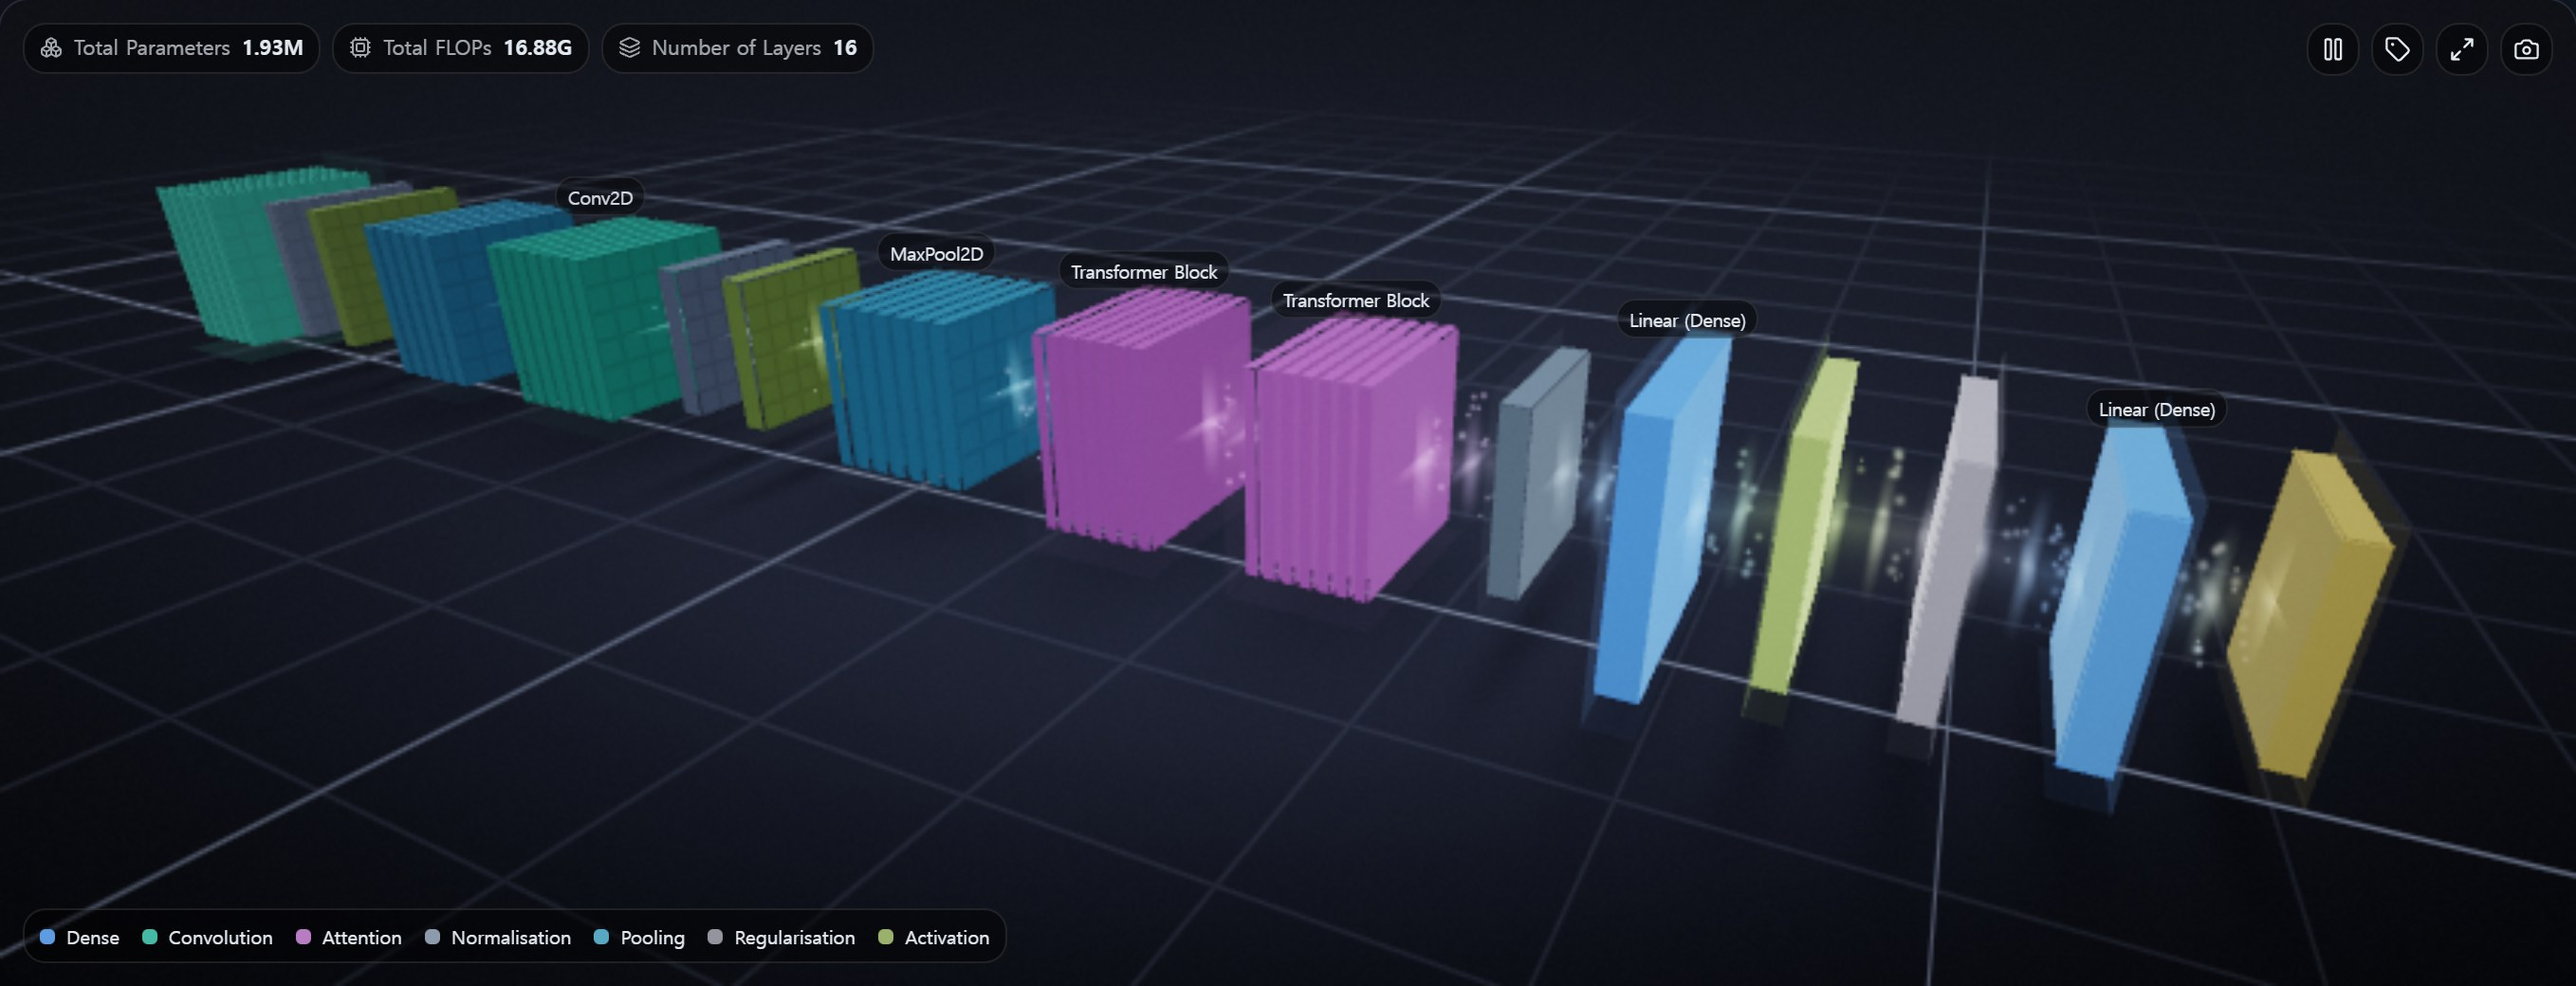
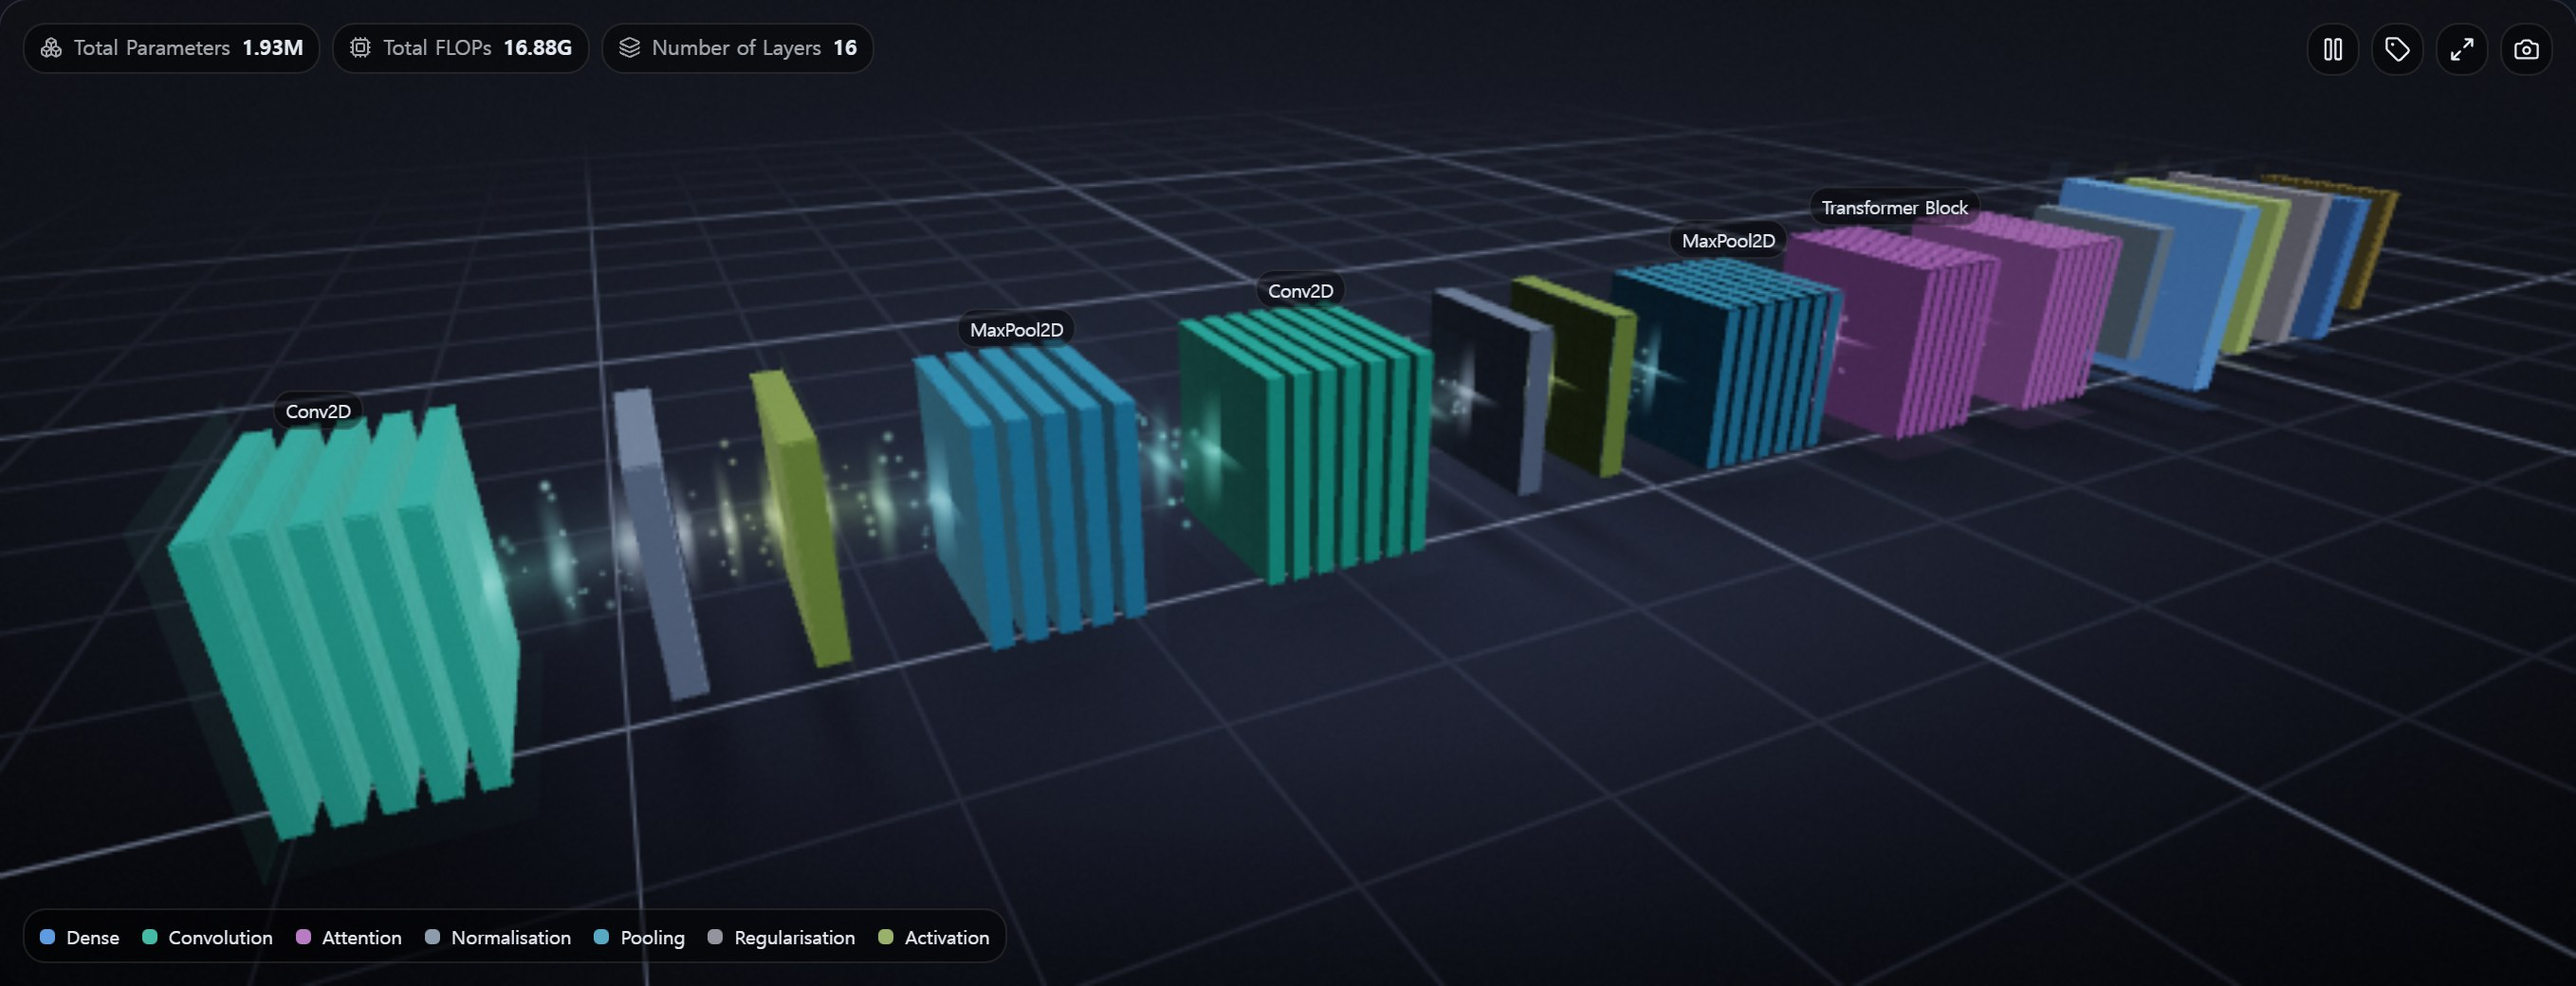
Re-frame on resize, and make the placeholder scene a real one
Resizing the window cut the model off. `resize()` updated the canvas and the
projection but never re-framed, so the fit distance, the composed angle and the
safe-area insets all stayed solved against the panel's previous shape. Dragging
a window from 1440px down to 760px left the model spanning 100% of the panel
with no margin at either edge; 1920 to 420 and 420 to 1280 clipped too.

It reproduces only by actually resizing. Loading fresh at each width looks
correct, which is how it got through a first pass of checks that opened a new
page per viewport.

`resize()` now re-frames an unposed camera. A camera the viewer has posed is
left alone, because the pose is theirs and Reset re-fits it.

That change then exposed a second bug it had been hiding. The renderer's
placeholder scene carried a `bounds` with only `center` and `radius` - no `min`
or `max` - so the first `resize()` threw inside `frameBounds`, engine
construction failed, and the caller treated it as "no WebGL" and quietly fell
back to the SVG diagram. A blank canvas with no console error. The placeholder
is now a complete Scene, which is what every other reader of `scene.bounds`
already assumed.

Measured across a resize sequence (1440 -> 760 -> 1920 -> 420 -> 1280), model
coverage is 85-89% x 54-68% with 5-8% margins on every side and no clipping at
any step. Before: three of the five steps clipped.

Verified: 455 tests; 45/45 documented claims; every header overlay and the
[…]

diff --git a/src/viz/renderer.js b/src/viz/renderer.js
@@ -180,7 +180,15 @@ export function createRenderer(canvas, options = {}) {
   let playing = true;
   let theme = options.isDarkMode ? THEMES.dark : THEMES.light;
 
-  let scene = { nodes: [], links: [], bounds: { center: [0, 0.9, 0], radius: 1 }, totals: {} };
+  // A complete Scene, not a partial one: the framing solve reads bounds.min and
+  // bounds.max, and a placeholder missing them threw during engine construction,
+  // which the caller then caught as "no WebGL" and quietly fell back to the SVG.
+  let scene = {
+    nodes: [],
+    links: [],
+    bounds: { min: [-1, 0, -1], max: [1, 1.8, 1], center: [0, 0.9, 0], radius: 1 },
+    totals: {},
+  };
   let selectedId = null;
   let hoveredId = null;
 
@@ -625,6 +633,15 @@ export function createRenderer(canvas, options = {}) {
     canvas.width = w;
     canvas.height = h;
     allocateTargets();
+
+    // Re-frame for the new panel. Everything the fit was solved against has just
+    // changed: the aspect it was fitted to, the angle composed for that aspect,
+    // and the safe-area insets, which are a fraction of a height that no longer
+    // holds. Only the projection followed the resize on its own, so narrowing
+    // the window used to cut the model off at both edges outright.
+    //
+    // A camera the viewer has posed is theirs and is left alone; Reset re-fits.
+    if (!camera.userPosed) frameAll();
   }
 
   // ── uniform helpers ─────────────────────────────────

diff --git a/docs/IMPLEMENTATION-SPEC.md b/docs/IMPLEMENTATION-SPEC.md
@@ -658,6 +658,14 @@ value; the render loop damps the actual value toward it with `damp(..., 9.0, dt)
   from the viewer's first drag the angle is theirs and a re-frame moves only the distance and the
   centre. `frameAll(true)` - Reset, double-click, `Home` - clears it again.
 
+  **Resize re-frames.** `resize()` calls `frameAll()` for an unposed camera. Everything the fit was
+  solved against changes with the panel: the aspect, the angle composed for that aspect, and the
+  insets, which are a fraction of a height that no longer holds. Only the projection follows a
+  resize on its own, so without this, narrowing the window cut the model off at both edges — 1440px
+  down to 760px left it spanning 100% of the panel with no margin at all. It reproduces only by
+  *resizing*: loading fresh at each width looks correct, which is how it survived a first pass.
+  A posed camera is left alone, because the pose is the viewer's.
+
   Measured on a 16-layer model in a 1398x520 panel: 83% x 35% of the panel before, 88% x 62%
   after.
 - `focus(node)` animates `target` and `radius` over `--dur-slow` with `easeInOutCubic`.
